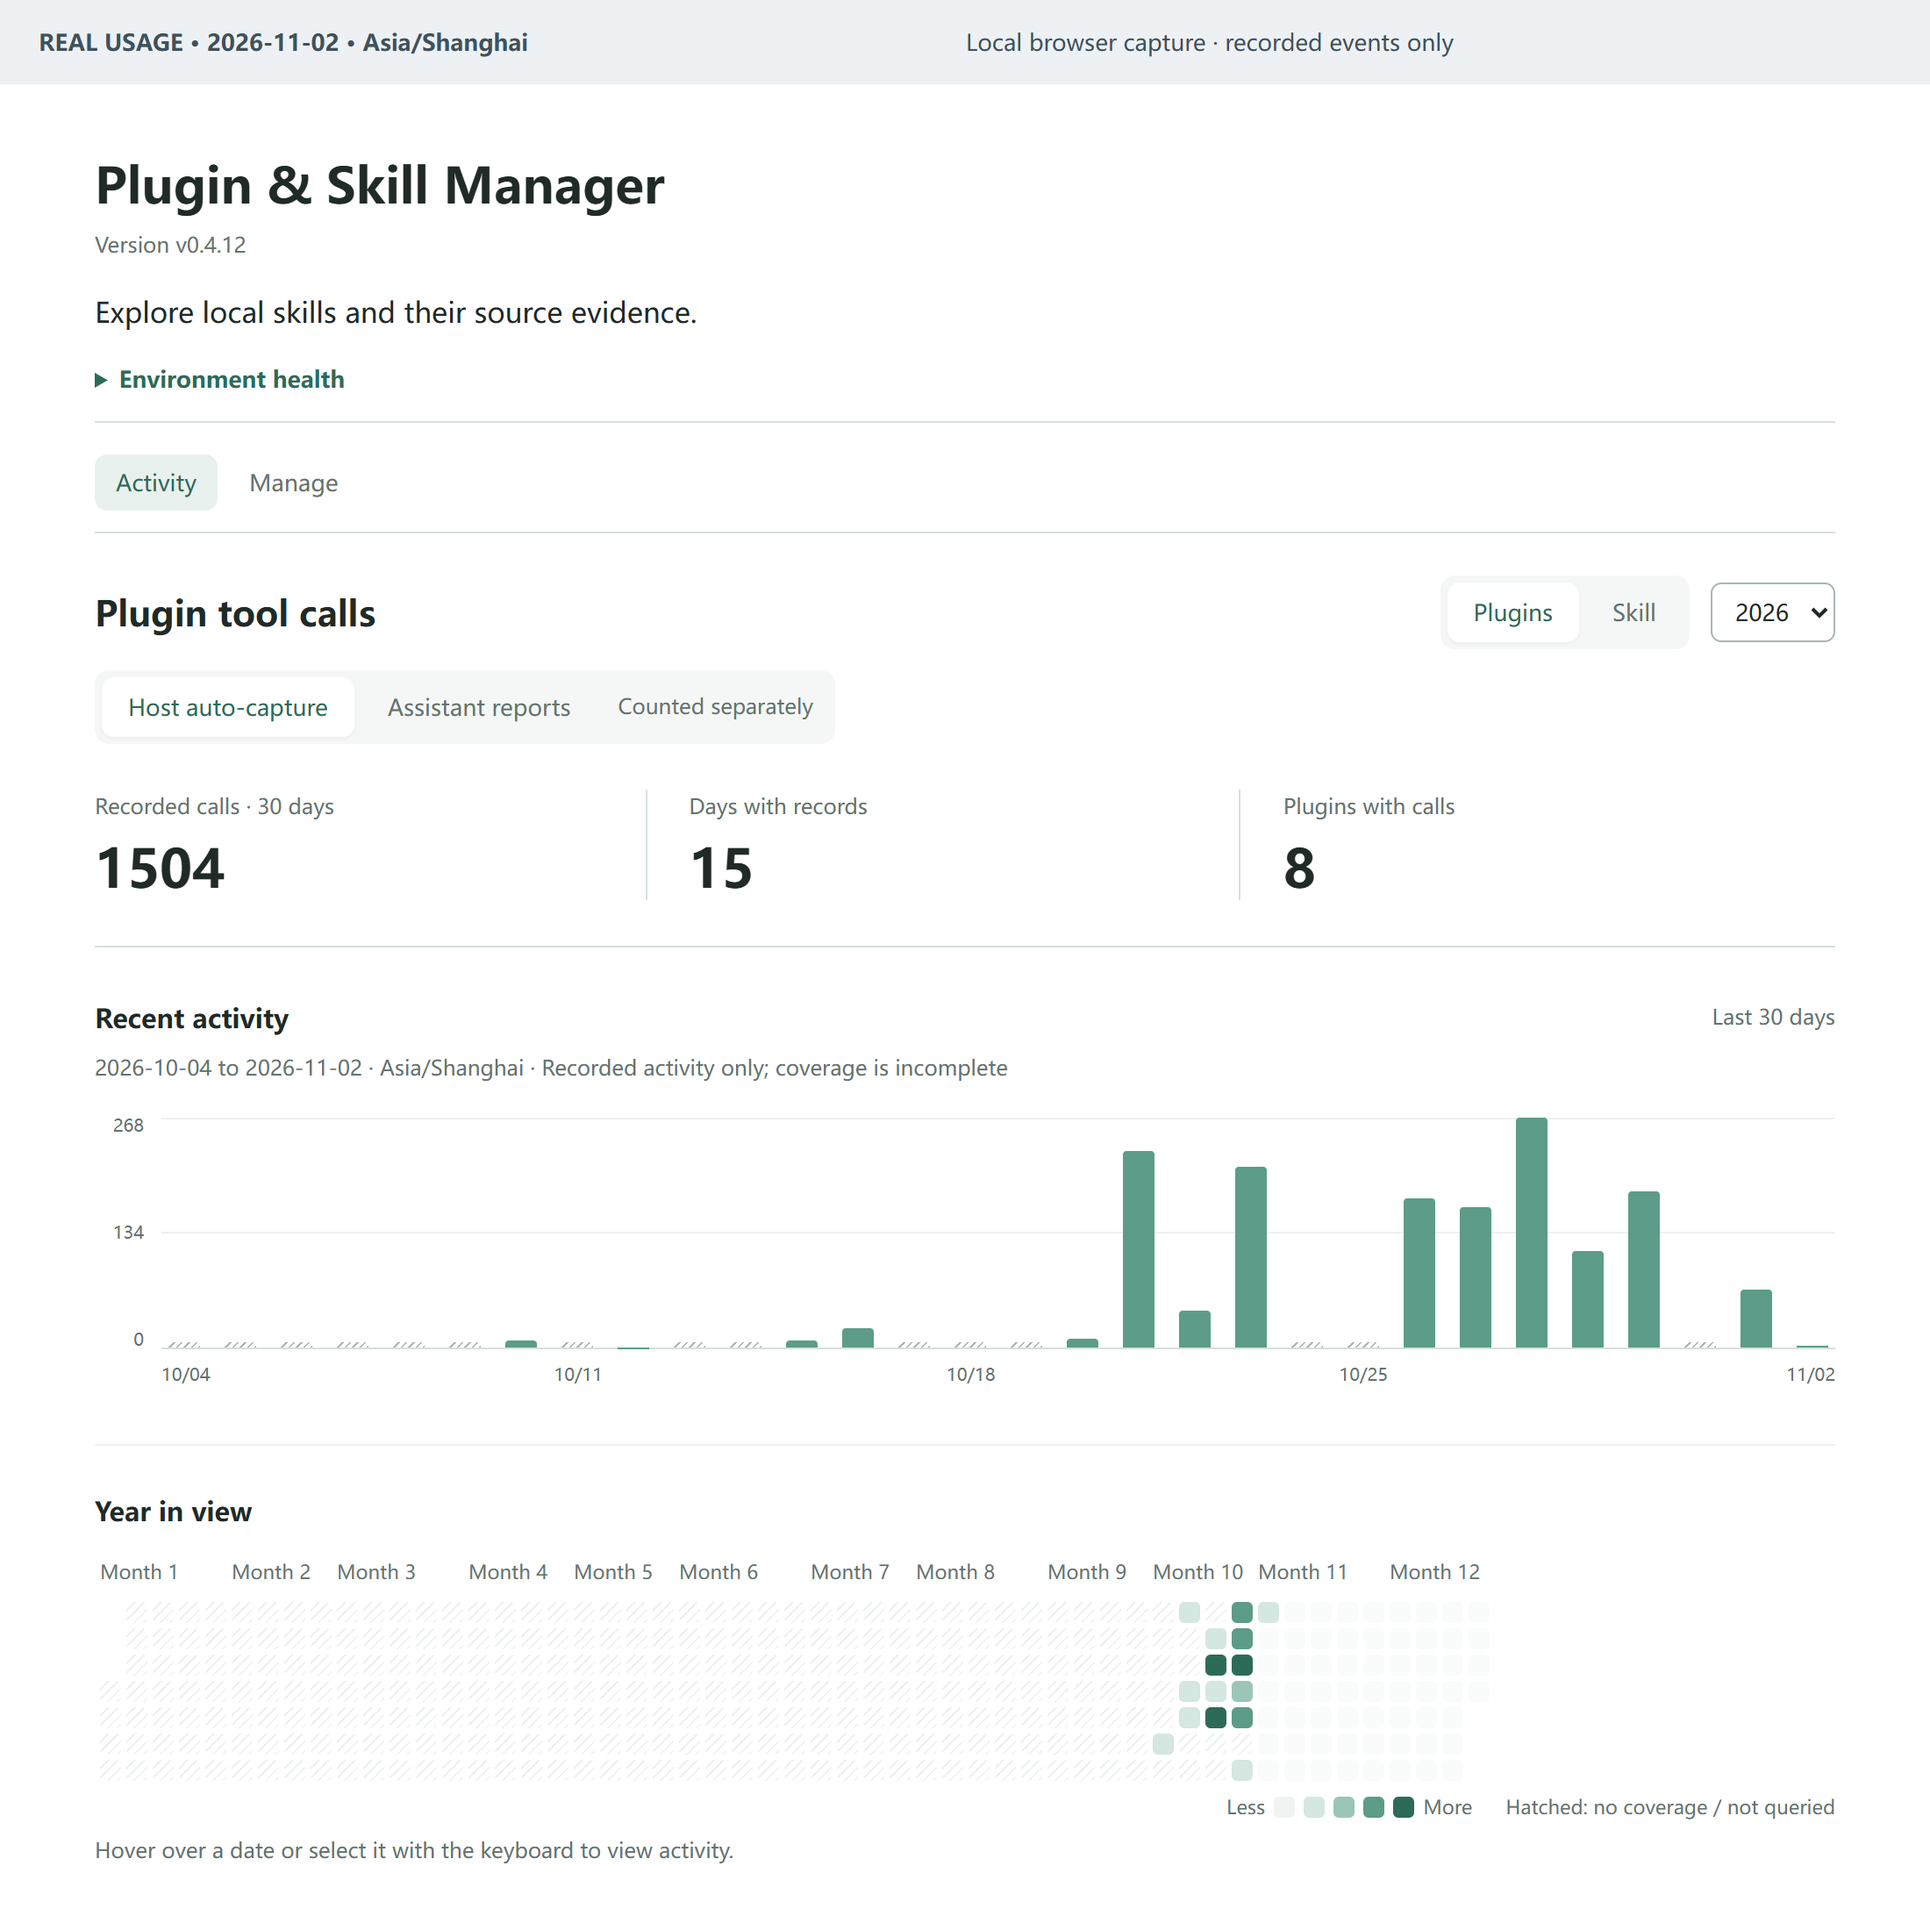
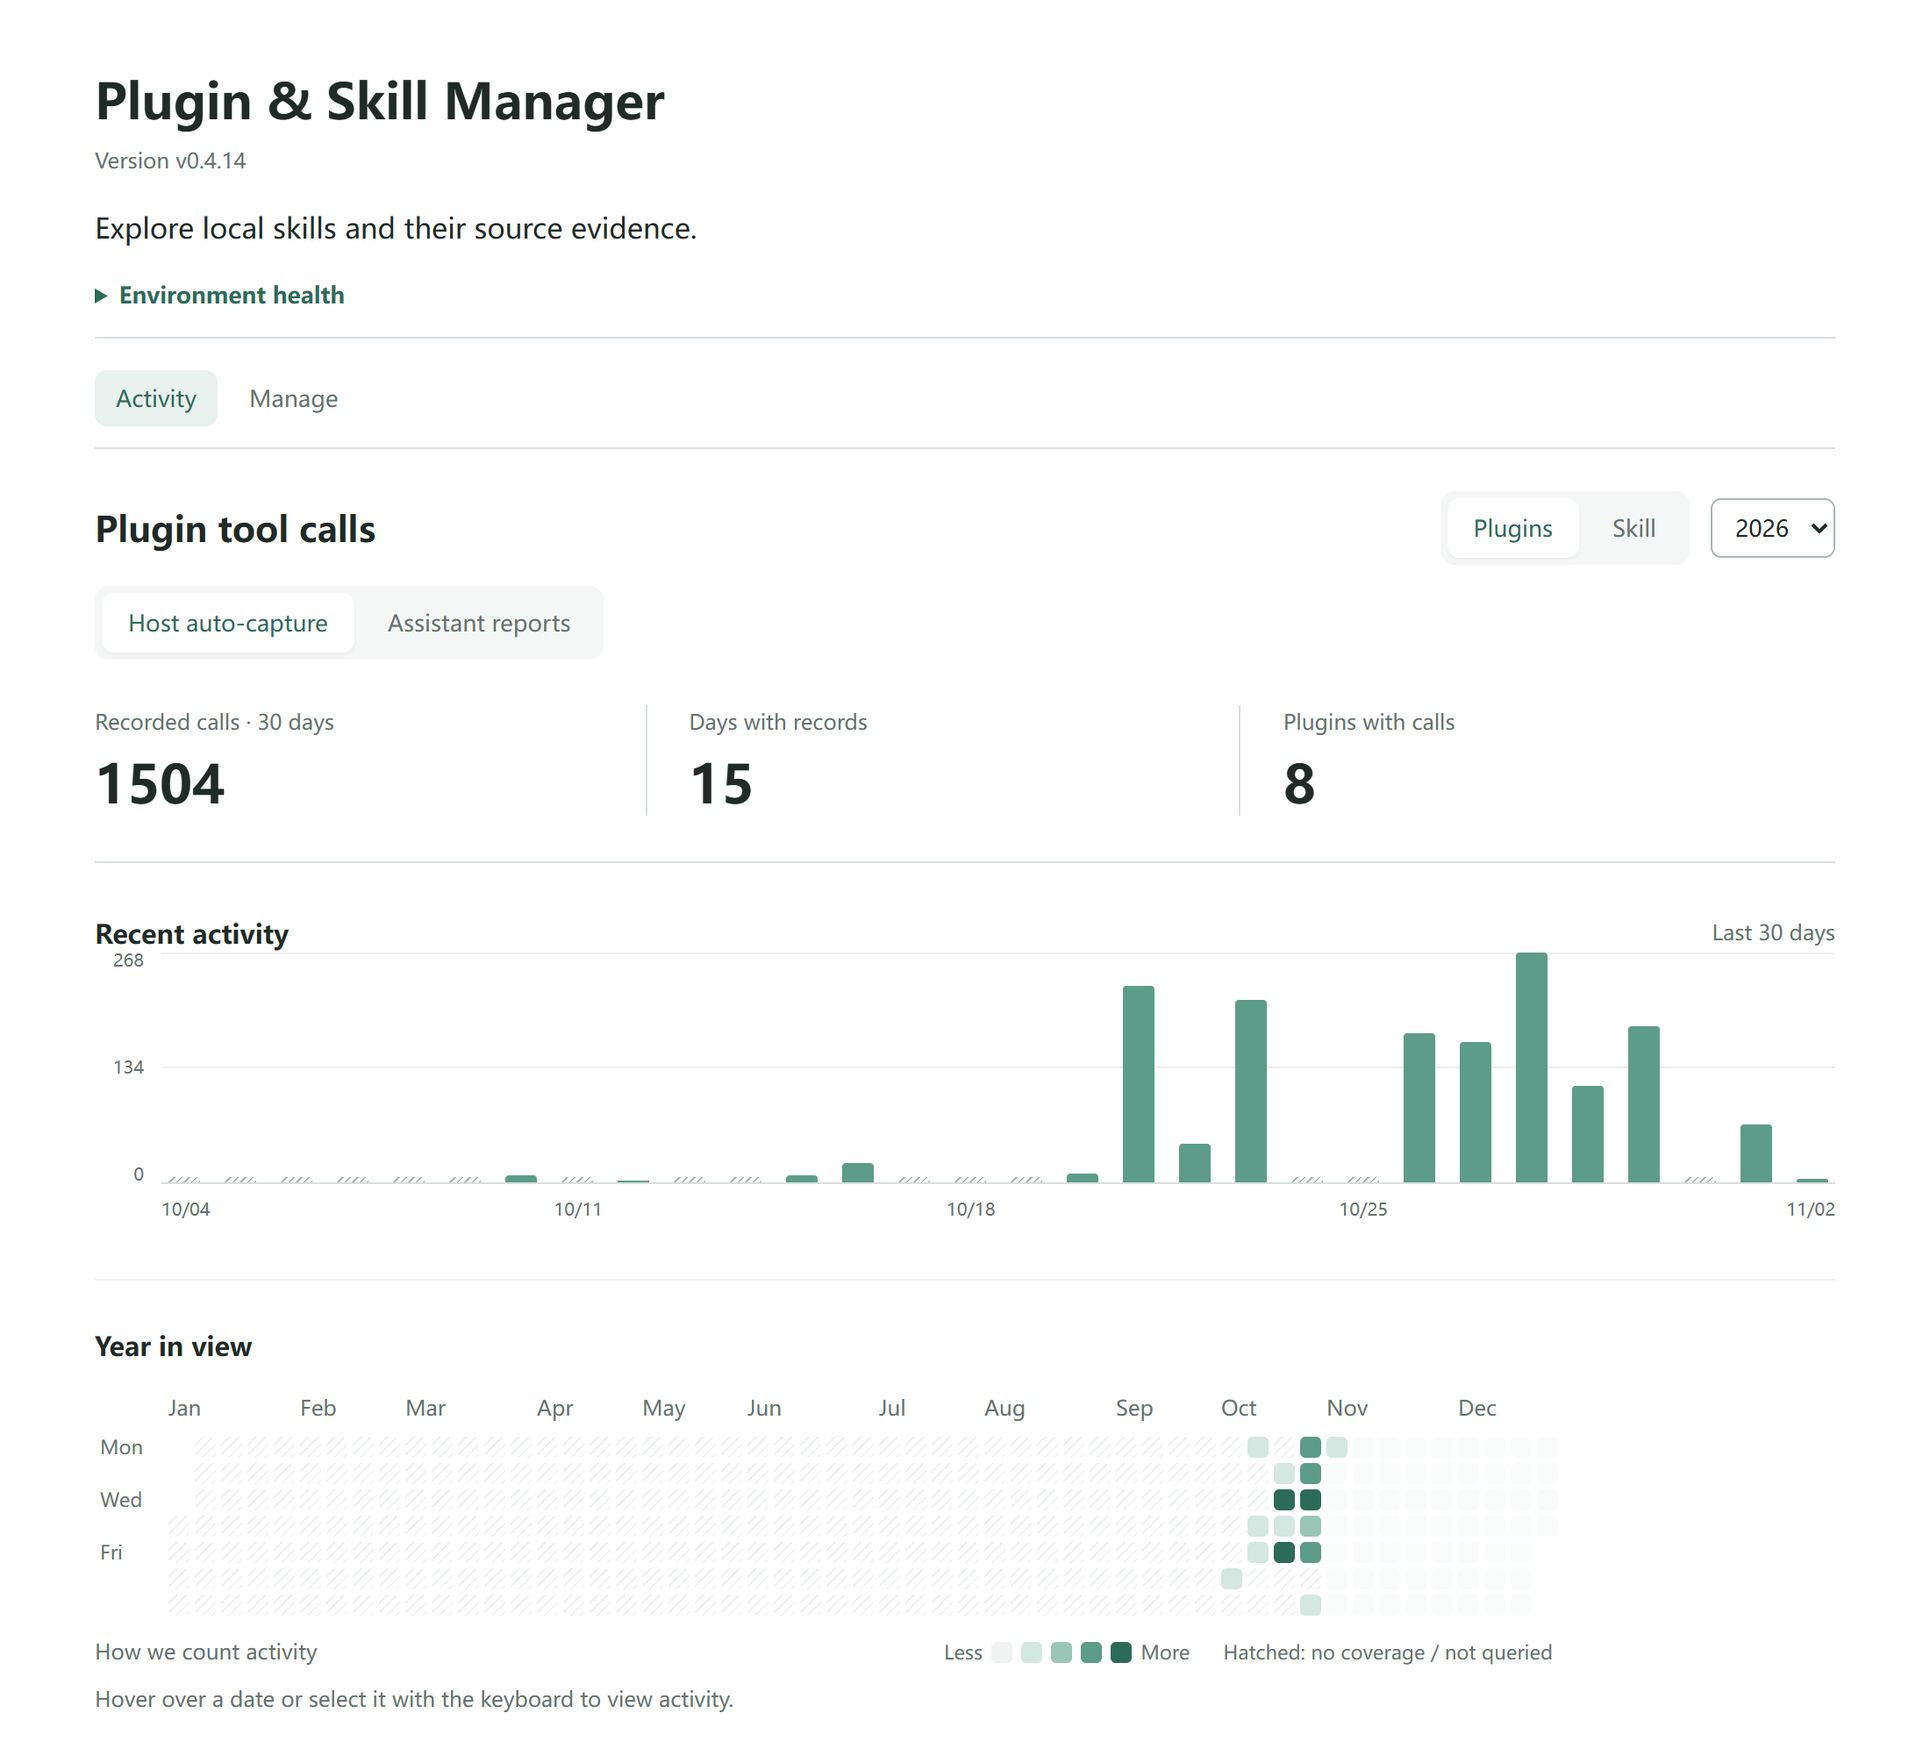
docs: use clean localized dashboard screenshots

diff --git a/docs/media/README.md b/docs/media/README.md
@@ -1,16 +1,16 @@
 # Demo assets
 
-## Current English usage — 2026-11-02
+## Current bilingual usage — 2026-11-02
 
-The English README now uses `current-20261102/activity-en.png`: the actual v0.4.12 application rendered in a local Chromium host, using a sanitized snapshot of the maintainer's real aggregate records. This is not a native Codex screenshot. The image is cropped before inventory-dependent rankings; only the activity overview is shown. No chart values or application labels were painted onto the screenshot.
+The English and Chinese READMEs use `current-20261102/activity-en.png` and `current-20261102/activity-zh.png`, respectively: the actual v0.4.14 application rendered in a local Chromium host, using a sanitized snapshot of the maintainer's real aggregate records. This is not a native Codex screenshot. The image is cropped before inventory-dependent rankings; only the activity overview is shown. No chart values or application labels were painted onto the screenshot.
 
-- Snapshot: November 2, 2026 at 09:45:37, Asia/Shanghai. The visible 30-day range is October 4–November 2; the last day is partial.
+- Snapshot: November 2, 2026. The visible 30-day range is October 4–November 2; the last day is partial.
 - Source: **Host auto-capture**, 1,504 recorded call attempts, 15 dates with records, 8 tool-service identities. Failed attempts are included. Assistant reports and Skill adoptions are separate metrics, not added to this total.
 - Observed event range: October 10–November 2. Coverage remains incomplete. Earlier unobserved dates retain hatching; no synthetic values, smoothing, randomized filler or inferred backfill was added.
 - Capture input omits inventory, paths, descriptions, notes, session identifiers and raw evidence. Only the aggregate activity needed for the image is supplied to the actual dashboard. Private raw ledgers and the working snapshot are not included in the repository media folder.
-- Verification: daily aggregates sum to the displayed total; English visible-text check, browser-error check and 390 px overflow check passed. `capture.json` records the scope and rendered bar labels. Narrow rendering is a layout check, not a native-host acceptance result.
+- Verification: daily aggregates sum to the displayed total; English and Chinese language checks, browser-error check and 390 px overflow check passed. `capture.json` and `capture-zh.json` record the scope and rendered bar labels. Narrow rendering is a layout check, not a native-host acceptance result.
 
-To reproduce with your own sanitized aggregate snapshot, build the application and run `node scripts/capture-usage-snapshot.mjs <snapshot.json> <output-directory>`. Set `PLAYWRIGHT_MODULE` and `CHROME_PATH` if needed. The script uses a frozen snapshot date, binds to loopback, blocks external browser requests and never reads live ledgers or writes usage records. Supply an `open_skill_manager`-shaped response restricted to aggregate plugin calls; do not supply a raw inventory response.
+To reproduce with your own sanitized aggregate snapshot, build the application and run `node scripts/capture-usage-snapshot.mjs <snapshot.json> <output-directory>` (append `--zh` for Chinese). Set `PLAYWRIGHT_MODULE` and `CHROME_PATH` if needed. The script uses a frozen snapshot date, binds to loopback, blocks external browser requests and never reads live ledgers or writes usage records. Supply an `open_skill_manager`-shaped response restricted to aggregate plugin calls; do not supply a raw inventory response.
 
 `architecture-en.svg` describes the current source implementation: local evidence inputs, the Node.js MCP service, host UI and companion Skills, separate JSON stores, read-only diagnosis and authorized reversible management. Its arrows show data and command flow, not remote hosting or complete automatic coverage.
 
@@ -72,7 +72,7 @@ For English capture, run `node scripts/demo.mjs --lang=en` and use browser local
 
 ## 0.2 management and setup
 
-`v020/en` and `v020/zh` contain language-matched screenshots and `walkthrough.webm`: a four-second-per-state sequence of six actual browser UI screenshots. It is a demonstration video, not native desktop capture or conversational review evidence. `capture.json` records the stages and browser errors. Paths displayed by the synthetic harness use `C:\demo\skill-manager`; actual fixture operations remain isolated in a temporary directory.
+`v020/en` and `v020/zh` contain language-matched screenshots and `walkthrough.webm`: a four-second-per-state sequence of six actual browser UI screenshots. It is a demonstration video, not native desktop capture or conversational review evidence. `capture.json` and `capture-zh.json` record the stages and browser errors. Paths displayed by the synthetic harness use `C:\demo\skill-manager`; actual fixture operations remain isolated in a temporary directory.
 
 Reproduce with `scripts/capture-walkthrough.mjs <demo-url> <output-directory>` (add `--zh` for Chinese), using Playwright and Chrome. If Playwright is not installed in the project, set `PLAYWRIGHT_MODULE` to its absolute `index.mjs`; `CHROME_PATH` selects the browser executable. `scripts/acceptance-ui.mjs <demo-url> <output-directory>` separately checks actual note, archive, restore and narrow-panel behavior. Neither requires a private account or real activity data.
 

diff --git a/README.md b/README.md
@@ -15,7 +15,7 @@ A local activity dashboard for Codex: calendar heatmaps, date-filtered rankings,
 
 **English** | [中文](README.zh-CN.md) · [Install](docs/DISTRIBUTION.md) · [Release v0.4.11](https://github.com/zz11ss11zz/plugin-skill-manager/releases/tag/v0.4.11) · [Glama directory](https://glama.ai/mcp/servers/zz11ss11zz/plugin-skill-manager) · [Apache-2.0](LICENSE)
 
-![v0.4.12 English activity dashboard showing 1,504 real recorded call attempts across 15 days and 8 tool services](docs/media/current-20261102/activity-en.png)
+![v0.4.14 English activity dashboard showing 1,504 real recorded call attempts across 15 days and 8 tool services](docs/media/current-20261102/activity-en.png)
 
 ## What it helps you do
 
@@ -97,7 +97,7 @@ node install.mjs uninstall
 
 ## Environment health
 
-The published v0.4.11 package includes **[Environment health](docs/ENVIRONMENT_HEALTH.md)**: a manual dashboard check and an independent `node scripts/doctor.mjs` command for dependencies, installation, data and capture problems. A failed check preserves the other results and suggests next steps. The image above shows v0.4.12. Current main source and the verified private installation are v0.4.14, retaining the outline wrench artwork, updating calendar labels and simplifying activity captions. The public complete download remains v0.4.11; see [validation](docs/VALIDATION.md) for the boundaries.
+The published v0.4.11 package includes **[Environment health](docs/ENVIRONMENT_HEALTH.md)**: a manual dashboard check and an independent `node scripts/doctor.mjs` command for dependencies, installation, data and capture problems. A failed check preserves the other results and suggests next steps. The image above shows v0.4.14. Current main source and the verified private installation are v0.4.14, retaining the outline wrench artwork, updating calendar labels and simplifying activity captions. The public complete download remains v0.4.11; see [validation](docs/VALIDATION.md) for the boundaries.
 
 ## Demo and feedback
 

diff --git a/README.zh-CN.md b/README.zh-CN.md
@@ -15,7 +15,7 @@
 
 [English](README.md) | **中文** · [下载安装](docs/DISTRIBUTION.md) · [Release v0.4.11](https://github.com/zz11ss11zz/plugin-skill-manager/releases/tag/v0.4.11) · [Glama 目录](https://glama.ai/mcp/servers/zz11ss11zz/plugin-skill-manager) · [Apache-2.0](LICENSE)
 
-![v0.4.12 英文活动面板：1,504 次真实调用记录，涵盖 15 个活跃日期和 8 个工具服务](docs/media/current-20261102/activity-en.png)
+![v0.4.14 中文活动面板：1,504 次真实调用记录，涵盖 15 个活跃日期和 8 个工具服务](docs/media/current-20261102/activity-zh.png)
 
 ## 能帮你做什么
 
@@ -101,7 +101,7 @@ node install.mjs uninstall
 
 已发布的 v0.4.11 包包含 **[统一环境诊断](docs/ENVIRONMENT_HEALTH.md)**：可在界面手动检查依赖、安装、数据和采集状态；也可独立运行 `node scripts/doctor.mjs`，中文输出使用 `--zh`。单项失败仍返回其余结果并提供处理建议。
 
-上方截图为 v0.4.12 界面。当前 main 源码与已验证的私有安装版本为 v0.4.14，保留细线扳手图标，更新了日历标签并精简活动说明；公开完整下载包仍为 v0.4.11。具体边界见[验收记录](docs/VALIDATION.md)。
+上方截图为 v0.4.14 中文界面。当前 main 源码与已验证的私有安装版本为 v0.4.14，保留细线扳手图标，更新了日历标签并精简活动说明；公开完整下载包仍为 v0.4.11。具体边界见[验收记录](docs/VALIDATION.md)。
 
 ## 演示与反馈
 
